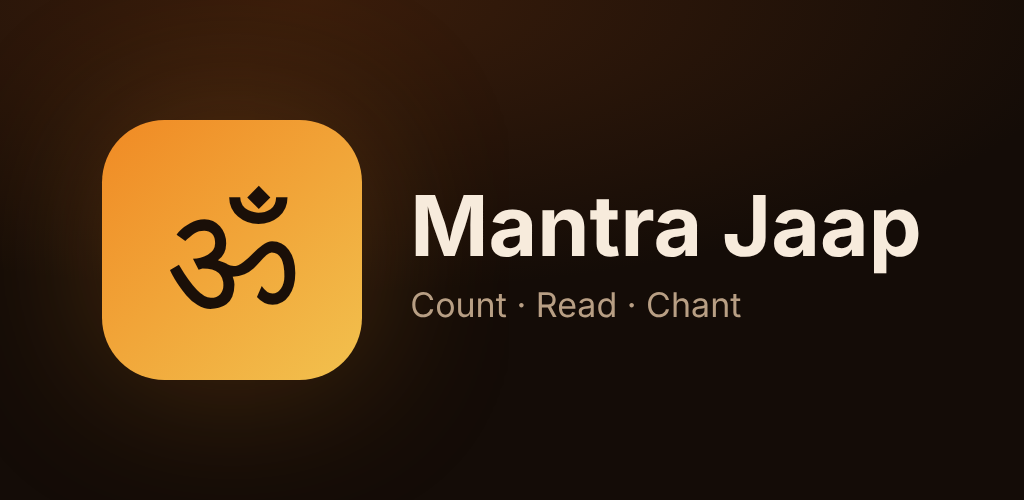
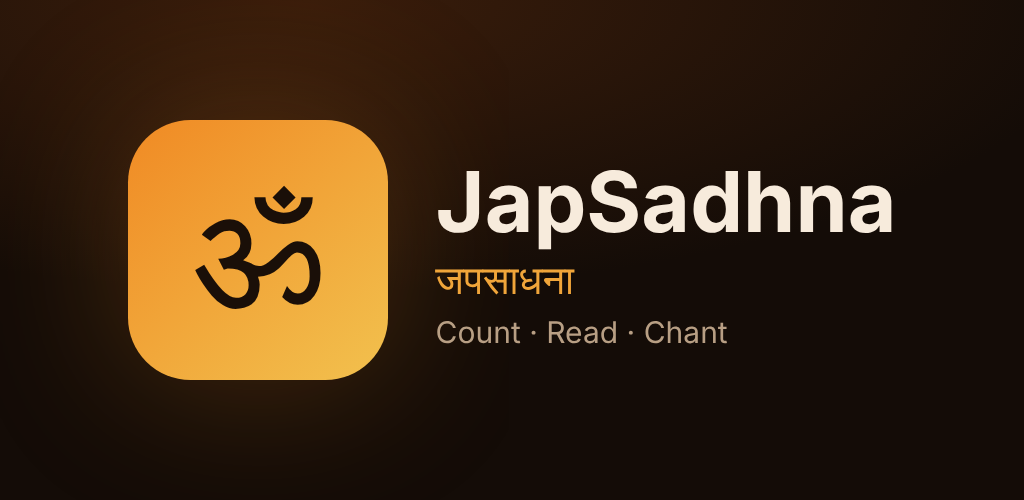
Rename the app to JapSadhna (जपसाधना)
New name in the app header (Hindi and Marathi show जपसाधना), page titles,
privacy policy, Android app name, release name, download file and store
graphic. The download is japsadhna.apk; mantra-jaap.apk is still published
so the old link keeps working. The Android package id, sign-in callback and
saved-data keys are unchanged, so updates install over the old app and
nobody loses their counts.

Claude-Session: https://claude.ai/code/session_01K5hRrfvywVe3AeMSiFZKaG

Changed region(s): [[0.3125, 0.24, 0.9062, 0.78], [0.1562, 0.36, 0.3125, 0.63], [0.0938, 0.24, 0.1875, 0.78]]

diff --git a/privacy.html b/privacy.html
@@ -4,8 +4,8 @@
 <meta charset="utf-8">
 <meta name="viewport" content="width=device-width,initial-scale=1,viewport-fit=cover">
 <meta name="theme-color" content="#140c07">
-<title>Privacy Policy · Mantra Jaap</title>
-<meta name="description" content="How the Mantra Jaap app and website handle your information.">
+<title>Privacy Policy · JapSadhna</title>
+<meta name="description" content="How the JapSadhna app and website handle your information.">
 <link rel="preconnect" href="https://fonts.googleapis.com">
 <link rel="preconnect" href="https://fonts.gstatic.com" crossorigin>
 <link rel="stylesheet" href="https://fonts.googleapis.com/css2?family=Mukta:wght@400;500;600;700&display=swap">
@@ -53,13 +53,13 @@
 <main>
   <header>
     <span class="logo" aria-hidden="true">ॐ</span>
-    <a href="/">Mantra Jaap</a>
+    <a href="/">JapSadhna</a>
   </header>
 
   <h1>Privacy Policy</h1>
-  <p class="meta">Effective 11 October 2026 · applies to the Mantra Jaap Android app and the website mantra-jaap-delta.vercel.app</p>
+  <p class="meta">Effective 11 October 2026 · applies to the JapSadhna Android app and the website mantra-jaap-delta.vercel.app</p>
 
-  <p>Mantra Jaap helps you count mantra jaap and read prayers. This policy explains what information the app uses, why, and the choices you have. We have tried to keep it short and plain.</p>
+  <p>JapSadhna helps you count mantra jaap and read prayers. This policy explains what information the app uses, why, and the choices you have. We have tried to keep it short and plain.</p>
 
   <div class="summary">
     <ul>
@@ -134,7 +134,7 @@
   <p>Data is sent over encrypted connections (HTTPS). Account data is protected so that each person can access only their own information. No method of storage or transfer is completely secure, but we work to protect your information.</p>
 
   <h2>6. Children</h2>
-  <p>Mantra Jaap is not directed at children under 13, and we do not knowingly collect personal information from them. If you believe a child has given us personal information, contact us and we will delete it.</p>
+  <p>JapSadhna is not directed at children under 13, and we do not knowingly collect personal information from them. If you believe a child has given us personal information, contact us and we will delete it.</p>
 
   <h2>7. Your choices and rights</h2>
   <ul>
@@ -150,7 +150,7 @@
   <p>Questions, requests or account deletion:<br>
     <a class="contact" href="mailto:patil.jitesh866@gmail.com?subject=Mantra%20Jaap%20privacy">patil.jitesh866@gmail.com</a></p>
 
-  <footer>© 2026 Mantra Jaap</footer>
+  <footer>© 2026 JapSadhna</footer>
 </main>
 </body>
 </html>

diff --git a/js/i18n.js b/js/i18n.js
@@ -1,7 +1,7 @@
 // UI strings. Keys missing from a language fall back to English.
 export const STRINGS = {
   en: {
-    brand: 'Mantra Jaap',
+    brand: 'JapSadhna',
     todayLine: '{n} jaap today',
     todayNone: 'Begin your practice',
     continue: 'Continue',
@@ -213,7 +213,7 @@ export const STRINGS = {
   },
 
   hi: {
-    brand: 'मंत्र जाप',
+    brand: 'जपसाधना',
     todayLine: 'आज {n} जाप',
     todayNone: 'अपनी साधना शुरू करें',
     continue: 'जारी रखें',
@@ -424,7 +424,7 @@ export const STRINGS = {
   },
 
   mr: {
-    brand: 'मंत्र जप',
+    brand: 'जपसाधना',
     todayLine: 'आज {n} जप',
     todayNone: 'तुमची साधना सुरू करा',
     continue: 'पुढे चालू ठेवा',

diff --git a/index.html b/index.html
@@ -4,7 +4,7 @@
 <meta charset="utf-8">
 <meta name="viewport" content="width=device-width,initial-scale=1,viewport-fit=cover">
 <meta name="theme-color" content="#140c07">
-<title>Mantra Jaap</title>
+<title>JapSadhna · जपसाधना</title>
 <meta name="description" content="Count your mantra jaap and read prayers with live word highlighting. Chant aloud for automatic counting, or chant in your mind and tap.">
 <link rel="preconnect" href="https://fonts.googleapis.com">
 <link rel="preconnect" href="https://fonts.gstatic.com" crossorigin>

diff --git a/ANDROID.md b/ANDROID.md
@@ -1,4 +1,4 @@
-# Mantra Jaap for Android
+# JapSadhna for Android
 
 The Android app is the same web app (`index.html`, `css/`, `js/`) packaged with
 [Capacitor](https://capacitorjs.com). Inside the app it uses Android's own features:
@@ -17,7 +17,7 @@ The Android app is the same web app (`index.html`, `css/`, `js/`) packaged with
 
 Every push to `main` builds the app on GitHub Actions (`.github/workflows/android.yml`) and publishes it:
 
-**https://github.com/Jitesh-57/mantra-jaap/releases/latest** → `mantra-jaap.apk`
+**https://github.com/Jitesh-57/mantra-jaap/releases/latest** → `japsadhna.apk`
 
 Open that link on the phone, download, and open the file (allow "Install unknown apps" for the browser
 if Android asks). New builds install over the old one.
@@ -40,15 +40,15 @@ Needs Node 22, JDK 21 and Android Studio / Android SDK 36.
 
 1. **Create an upload key** (keep the file and passwords safe — Play needs the same key for every update):
 
-       keytool -genkeypair -v -keystore mantra-jaap-upload.jks -alias upload -keyalg RSA -keysize 2048 -validity 10000
+       keytool -genkeypair -v -keystore japsadhna-upload.jks -alias upload -keyalg RSA -keysize 2048 -validity 10000
 
 2. **Add GitHub secrets** (repo → Settings → Secrets and variables → Actions):
-   - `ANDROID_KEYSTORE_BASE64` – output of `base64 -w0 mantra-jaap-upload.jks`
+   - `ANDROID_KEYSTORE_BASE64` – output of `base64 -w0 japsadhna-upload.jks`
    - `ANDROID_KEYSTORE_PASSWORD`, `ANDROID_KEY_ALIAS` (`upload`), `ANDROID_KEY_PASSWORD`
 
-   The next build then also produces `mantra-jaap-play.aab` (in the workflow run's artifacts) for Play Console.
+   The next build then also produces `japsadhna-play.aab` (in the workflow run's artifacts) for Play Console.
 
-3. **Play Console** (one-time $25): create the app "Mantra Jaap", turn on Play App Signing, upload the `.aab`
+3. **Play Console** (one-time $25): create the app "JapSadhna", turn on Play App Signing, upload the `.aab`
    to Internal testing first.
    - Store listing artwork: `store/icon_512.png`, `store/feature_1024x500.png`, plus phone screenshots.
    - Privacy policy URL is required (the app uses the microphone, camera and accounts).

diff --git a/SETUP-ACCOUNTS.md b/SETUP-ACCOUNTS.md
@@ -1,6 +1,6 @@
 # Turning on sign-in (Google + email)
 
-Mantra Jaap uses the **same Supabase project as sjpt.io** (`lwworujvfttxkrjfrgav`).
+JapSadhna uses the **same Supabase project as sjpt.io** (`lwworujvfttxkrjfrgav`).
 Its data lives in its own table, `mantra_user_data`, and doesn't touch any sjpt table.
 Sign-in switches on as soon as `js/config.js` has both the project URL and the anon key.
 
@@ -8,11 +8,11 @@ Sign-in switches on as soon as `js/config.js` has both the project URL and the a
 Supabase → **SQL Editor** → **New query** → paste everything from `supabase/schema.sql` → **Run**.
 It only creates `mantra_user_data` with rules so each person can only see their own row.
 
-## 2. Allow the Mantra Jaap address
+## 2. Allow the JapSadhna address
 Supabase → **Authentication → URL Configuration → Redirect URLs** → **Add URL**:
 `https://mantra-jaap-delta.vercel.app/**`
 
-Leave the **Site URL** as sjpt.io. Mantra Jaap passes its own address when it signs people in.
+Leave the **Site URL** as sjpt.io. JapSadhna passes its own address when it signs people in.
 
 ## 3. Anon key
 Supabase → **Project Settings → API** → copy the **anon public** key
@@ -28,7 +28,7 @@ It is designed to be public; the table rules protect the data. Push to `main` an
 Google and email sign-in are already enabled in this project for sjpt.io, so nothing else is needed.
 
 ## Good to know with a shared project
-- One login works for both apps: someone with an sjpt.io account can sign in to Mantra Jaap with it, and the reverse.
+- One login works for both apps: someone with an sjpt.io account can sign in to JapSadhna with it, and the reverse.
 - The Google consent screen and the confirmation / password-reset emails use the names set up for sjpt.io.
 - Both apps share the project's free-tier limits (50,000 monthly active users, 500 MB database).
 

diff --git a/README.md b/README.md
@@ -1,4 +1,4 @@
-# Mantra Jaap
+# JapSadhna (जपसाधना)
 
 A mantra jaap counter and prayer reader that runs entirely in the browser.
 
